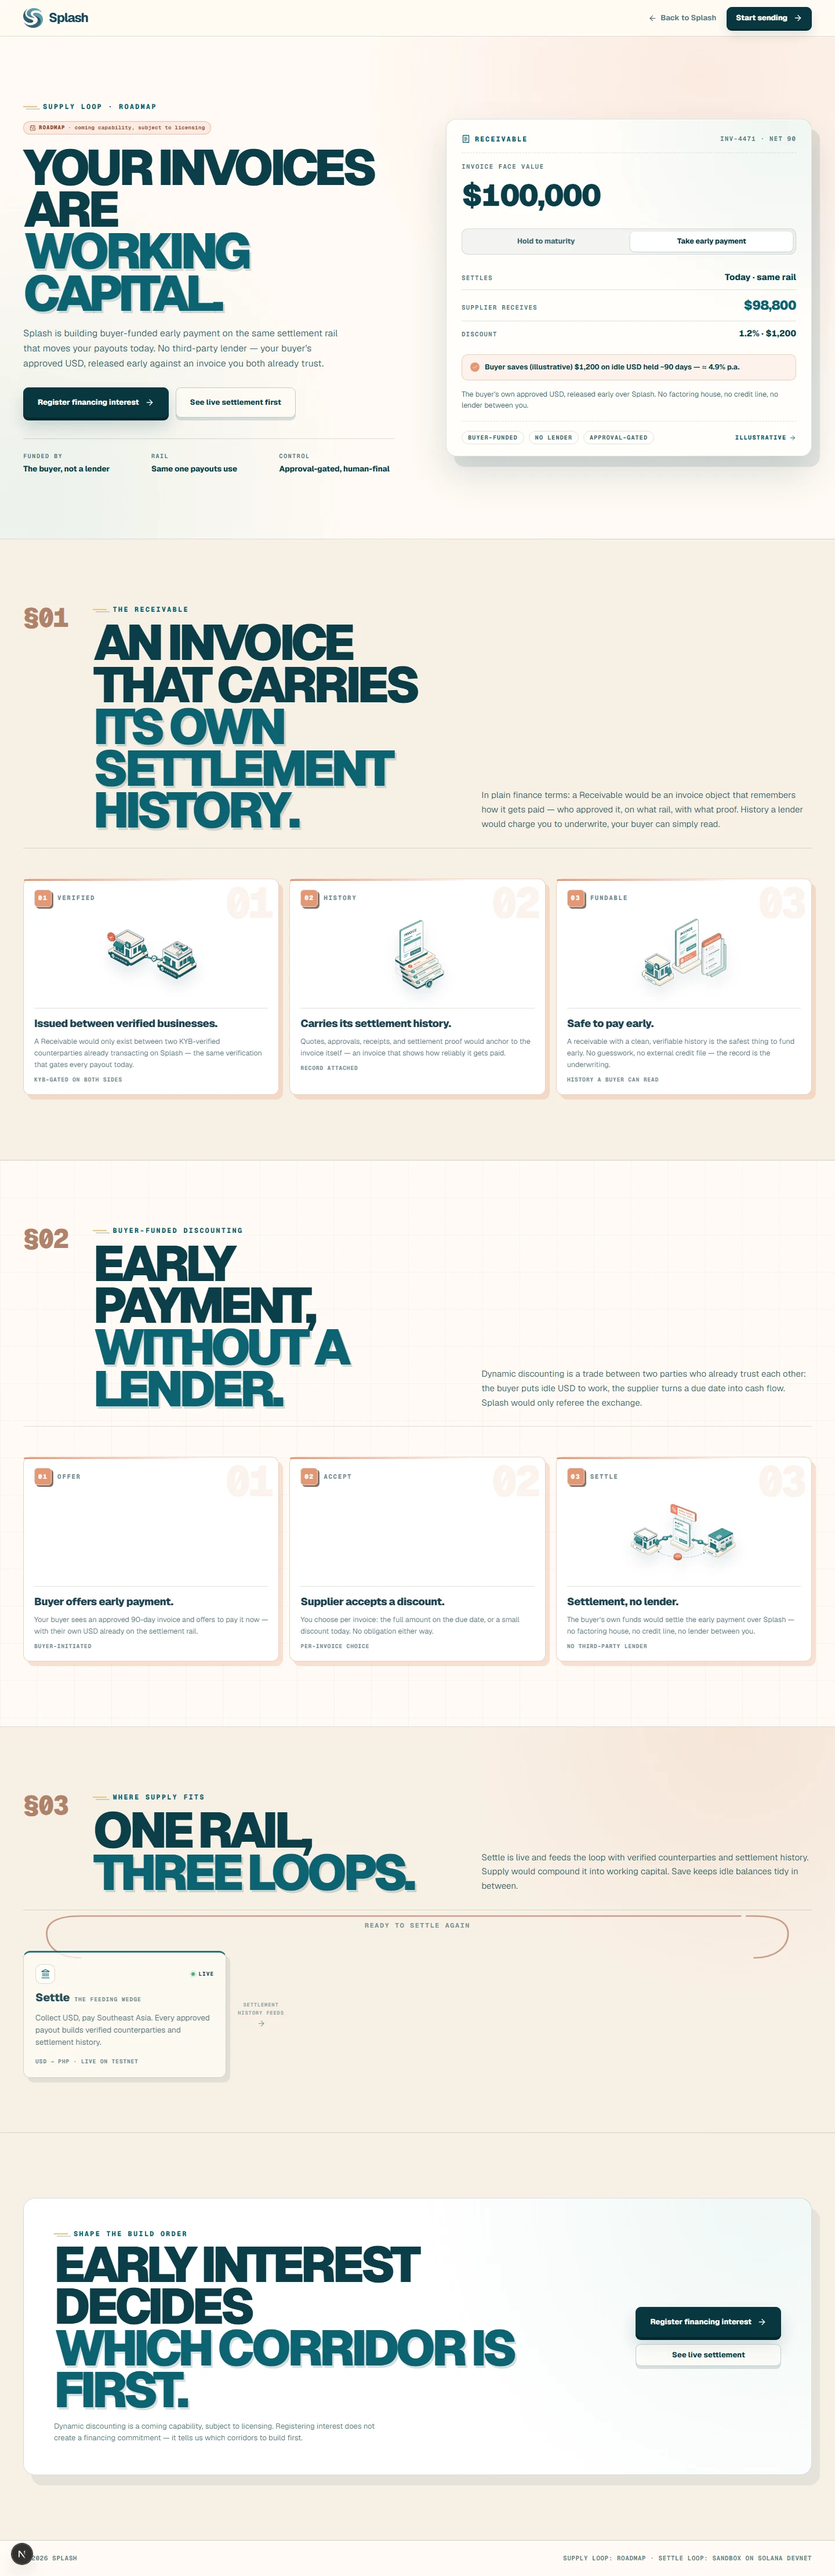
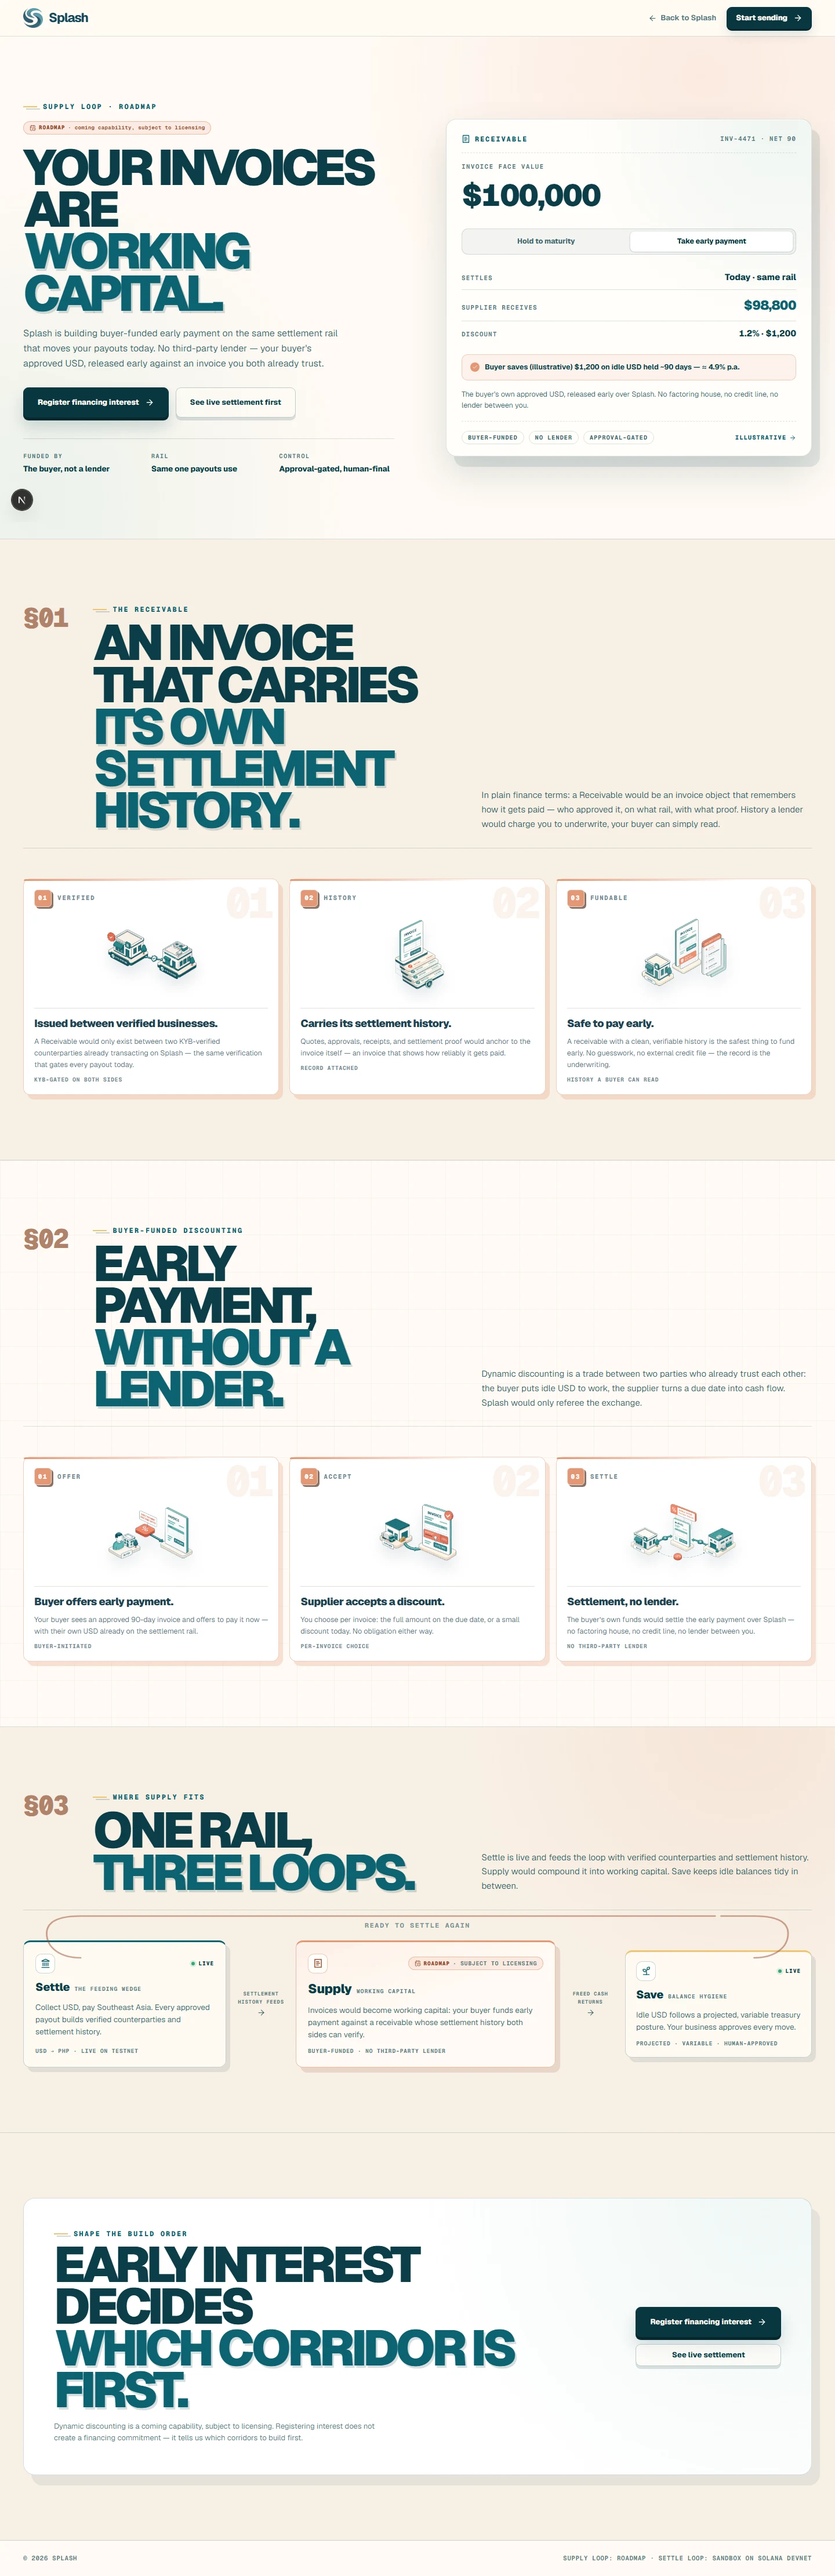
Prompt 12 Phase 0: the landing and working capital, as scrolled
The full-page shots of the landing and /working-capital came out mostly
blank: their sections appear only once scrolled into view (the landing's
IntersectionObserver reveal, working capital's whileInView cards and loops),
and a one-shot capture never scrolls. 01-landing (1440, 390, phone) and
03-working-capital are now stacked from viewport frames taken while
scrolling, so every section shows.

The README says how, and corrects the 390 px hero: below 700 px both user
agents get the static hero, which keeps the pinned hero's 430vh height
(cinematic.css 985 beats 823), so it ends in about 1,230 px of empty page.
That is why hero points 5 and 6 at 390 are blank.

diff --git a/docs/design/p12/before/README.md b/docs/design/p12/before/README.md
@@ -17,10 +17,21 @@ items it no longer shows.
 - **Browser:** headless Chrome through `tests/helpers/cdp-browser.mjs`, at 1440 × 900 and 390 × 844. At 390 the page
   is a phone viewport with touch. Shots are full page unless the name says otherwise. Signed out for the public pages,
   as the demo owner for `/dashboard`, as staff for `/admin`.
-- **The landing at 390 px:** the shots named `-390` keep a desktop browser's user agent, so they show what a narrow
-  desktop window gets: the desktop pinned hero, reflowed. A phone gets a different hero, chosen on the server from its
-  user agent (`app/page.tsx`, `isPhoneUserAgent`). `01-landing-phone-390` and `02-landing-hero-phone-390` are that
-  hero, taken with an iPhone Safari user agent.
+- **The landing and working capital, as scrolled:** `01-landing-*` and `03-working-capital-*` are stacked from one
+  viewport frame per screen height, taken while scrolling down at the real 900 or 844 px viewport (`.p12-tools/shot.mjs
+  scroll`). A one-shot full-page capture can't show these pages: their sections appear only once scrolled into view
+  (the landing's IntersectionObserver `cin-reveal`; working capital's `whileInView` cards and the three loops in §03),
+  and the landing's pinned hero is sized in `vh`. Shot in one go, everything below the landing's hero came out blank.
+  The sticky header and Next's badge show once, in the first frame. The back-to-top button shows in every later frame,
+  where a person scrolling sees it. The hero frames at 1440 are the pinned story as it plays.
+- **The landing at 390 px:** below 700 px wide, `SettlementCinematic` drops the pinned hero for a static one, whatever
+  the browser. The `-390` shots keep a desktop browser's user agent: the island is a faded wash behind the headline. A
+  phone's user agent (`app/page.tsx`, `isPhoneUserAgent`) sends the static hero from the server and puts the island in its
+  own card under the buttons: `01-landing-phone-390` and `02-landing-hero-phone-390`, taken with an iPhone Safari user
+  agent. Both end the hero with about 1,230 px of empty page. `.cin-section { height: 430vh }` inside
+  `@media (max-width: 880px)` (`styles/cinematic.css`, line 985) comes after `.cin-section-static { height: auto }`
+  (line 823) and wins, so the static hero keeps the pinned one's height (3,629 px at 844 px tall). Its content ends
+  near 2,400 px.
 - **Loader and error page:** one shows only while a route loads, the other only on a thrown error. Both were rendered
   through temporary routes, deleted afterwards. Nothing from them is committed.
 - **`24-batch-review`, 36–39 and 50** are the walkthrough's own screenshots (`tests/solana-ui.e2e.mjs`, run 2 below),
@@ -68,11 +79,11 @@ Every name has a `-1440` and a `-390` file unless a width is given.
 
 | File | What it shows | Audit |
 |---|---|---|
-| `01-landing` | Landing, full page | C |
-| `01-landing-phone-390` | Landing, full page, as a phone gets it (phone user agent) | C |
-| `02-landing-hero-0` … `-6` | The pinned hero at seven scroll points, start to end: the callouts around the island, the zoom and fade, then "Payments are the feature. Proof is the product." At 390 with a desktop user agent, points 5 and 6 are an empty page: the island has faded out and nothing takes its place at that width. | C |
+| `01-landing` | Landing, top to bottom as scrolled (14 frames at 1440, 19 at 390): the pinned hero, "Payments are the feature", the marquee, the three loops, the partner rail, How it works, Platform, Routes, Comparison, Trust, Zeke and the control plane, the closing band, the footer | C |
+| `01-landing-phone-390` | Landing, top to bottom as scrolled, as a phone gets it (phone user agent). Same sections; the hero's island sits in its own card | C |
+| `02-landing-hero-0` … `-6` | The hero at seven points of its scroll range, start to end. At 1440 it is pinned: the callouts around the island, the zoom and fade, then "Payments are the feature. Proof is the product." At 390 it is the static hero (see above), so the points walk down it, and 5 and 6 land in its empty tail. | C |
 | `02-landing-hero-phone-390` | The phone hero (static, not pinned), top of the page | C |
-| `03-working-capital` | `/working-capital`: extruded headlines, §01 to §03 chapters with faint 01/02/03 watermarks on the cards, caps mono labels, ledged cards | C |
+| `03-working-capital` | `/working-capital`, top to bottom as scrolled: extruded headlines, §01 to §03 chapters with faint 01/02/03 watermarks on the cards, caps mono labels, ledged cards, §03's Settle, Supply and Save loop cards | C |
 | `04-login` | Sign in | A |
 | `05-signup` | Sign up | A |
 | `06-forgot-password` | Forgot password | A |
